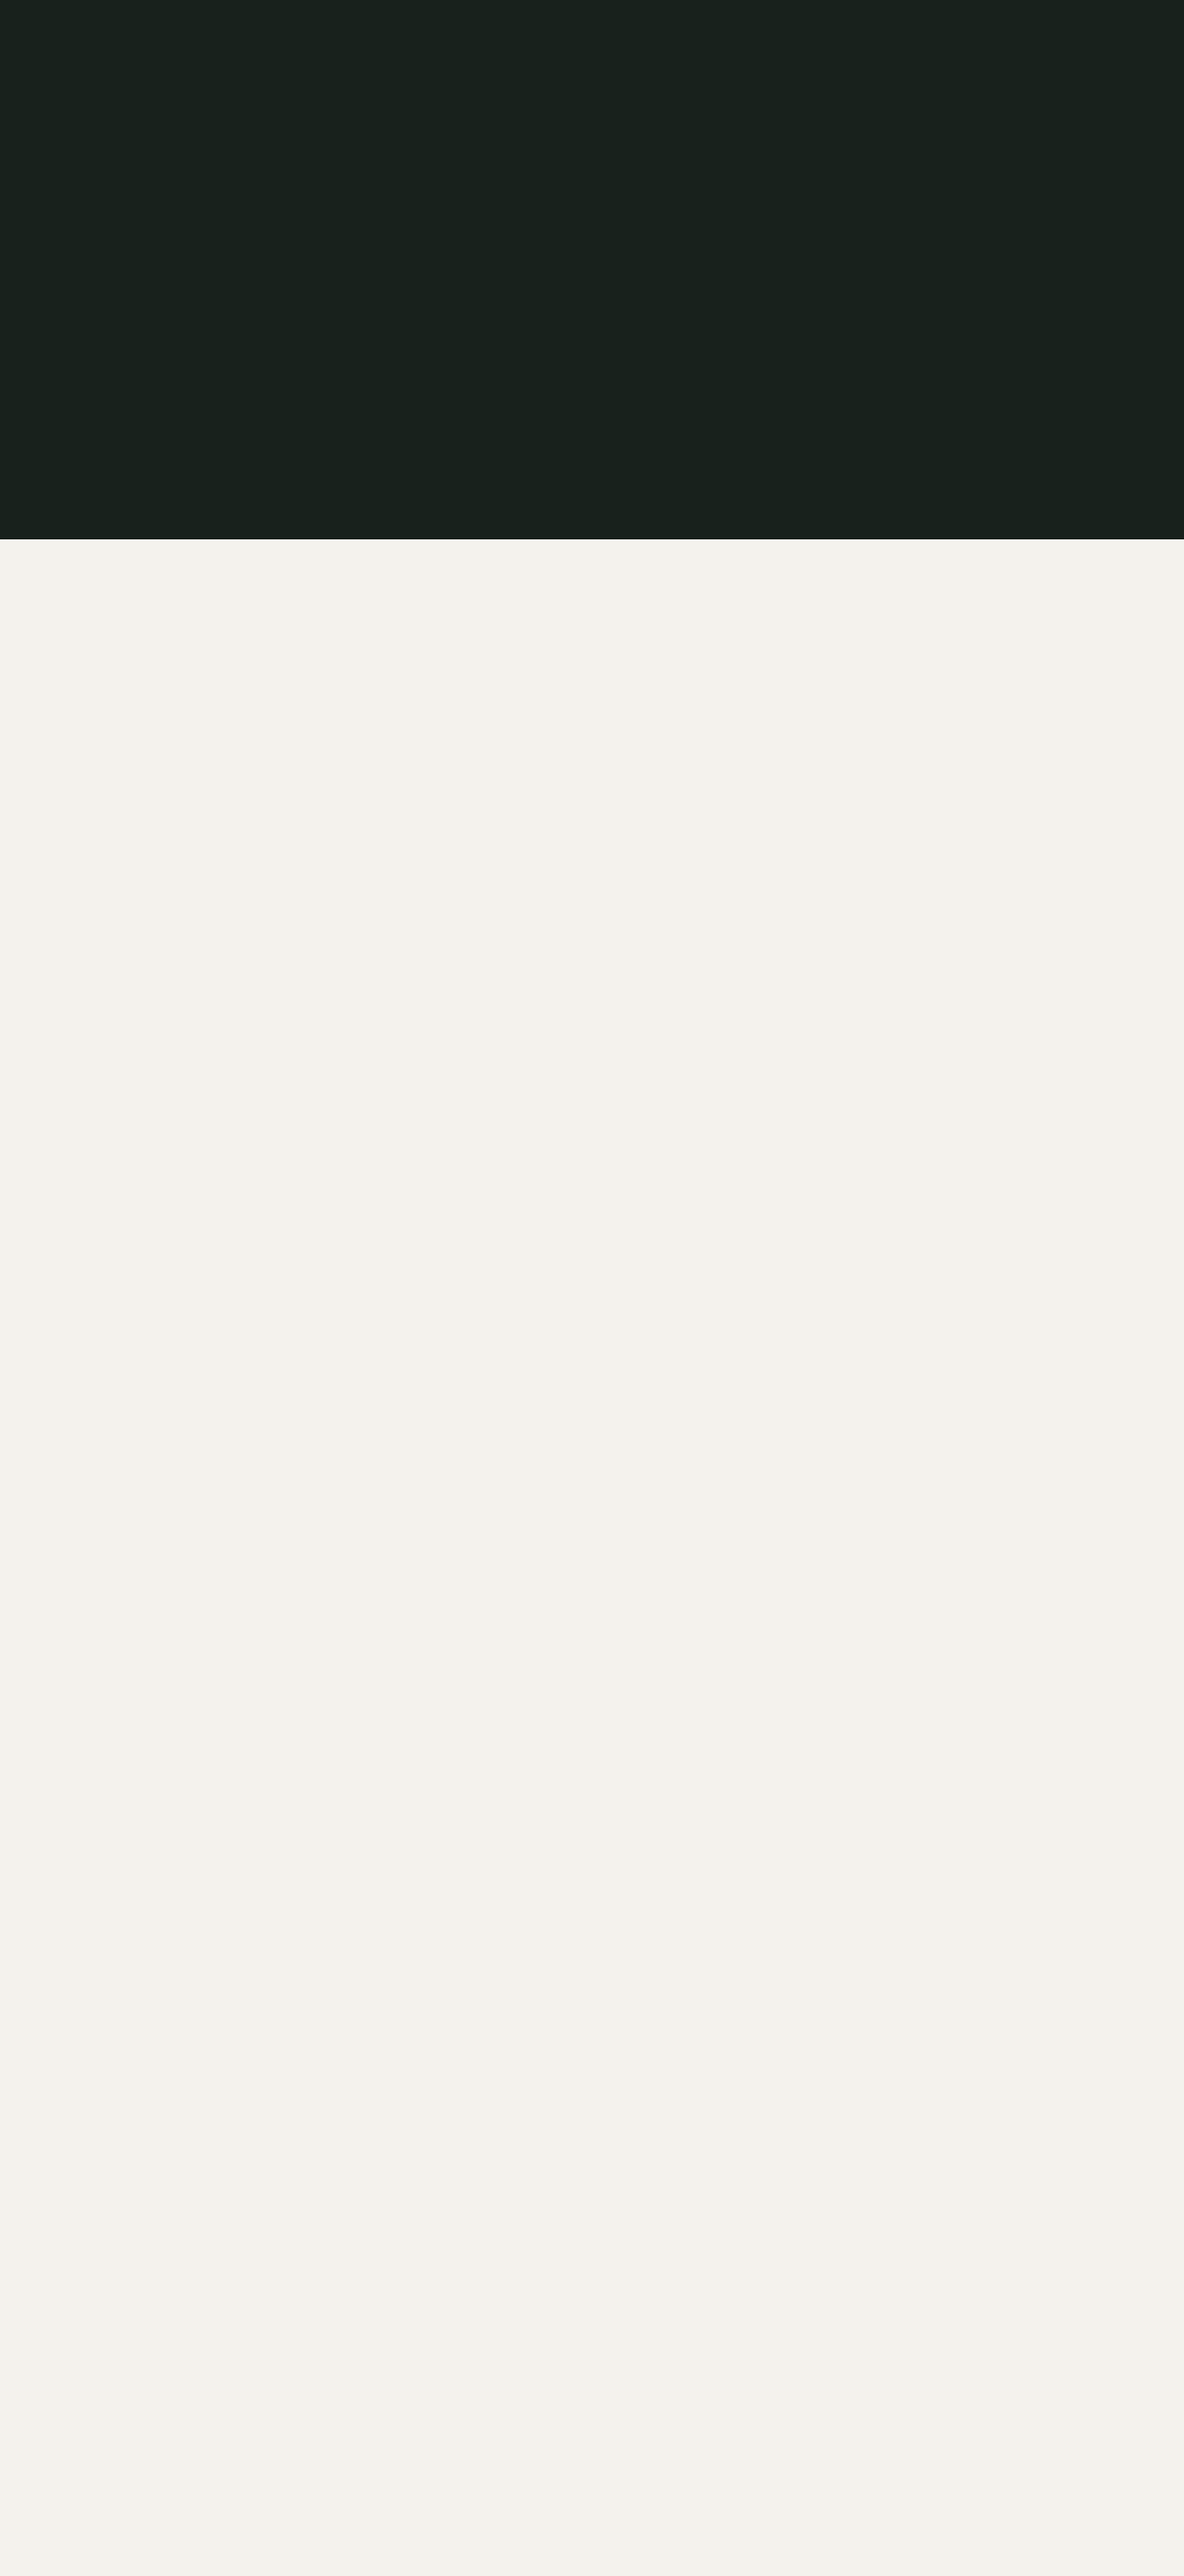
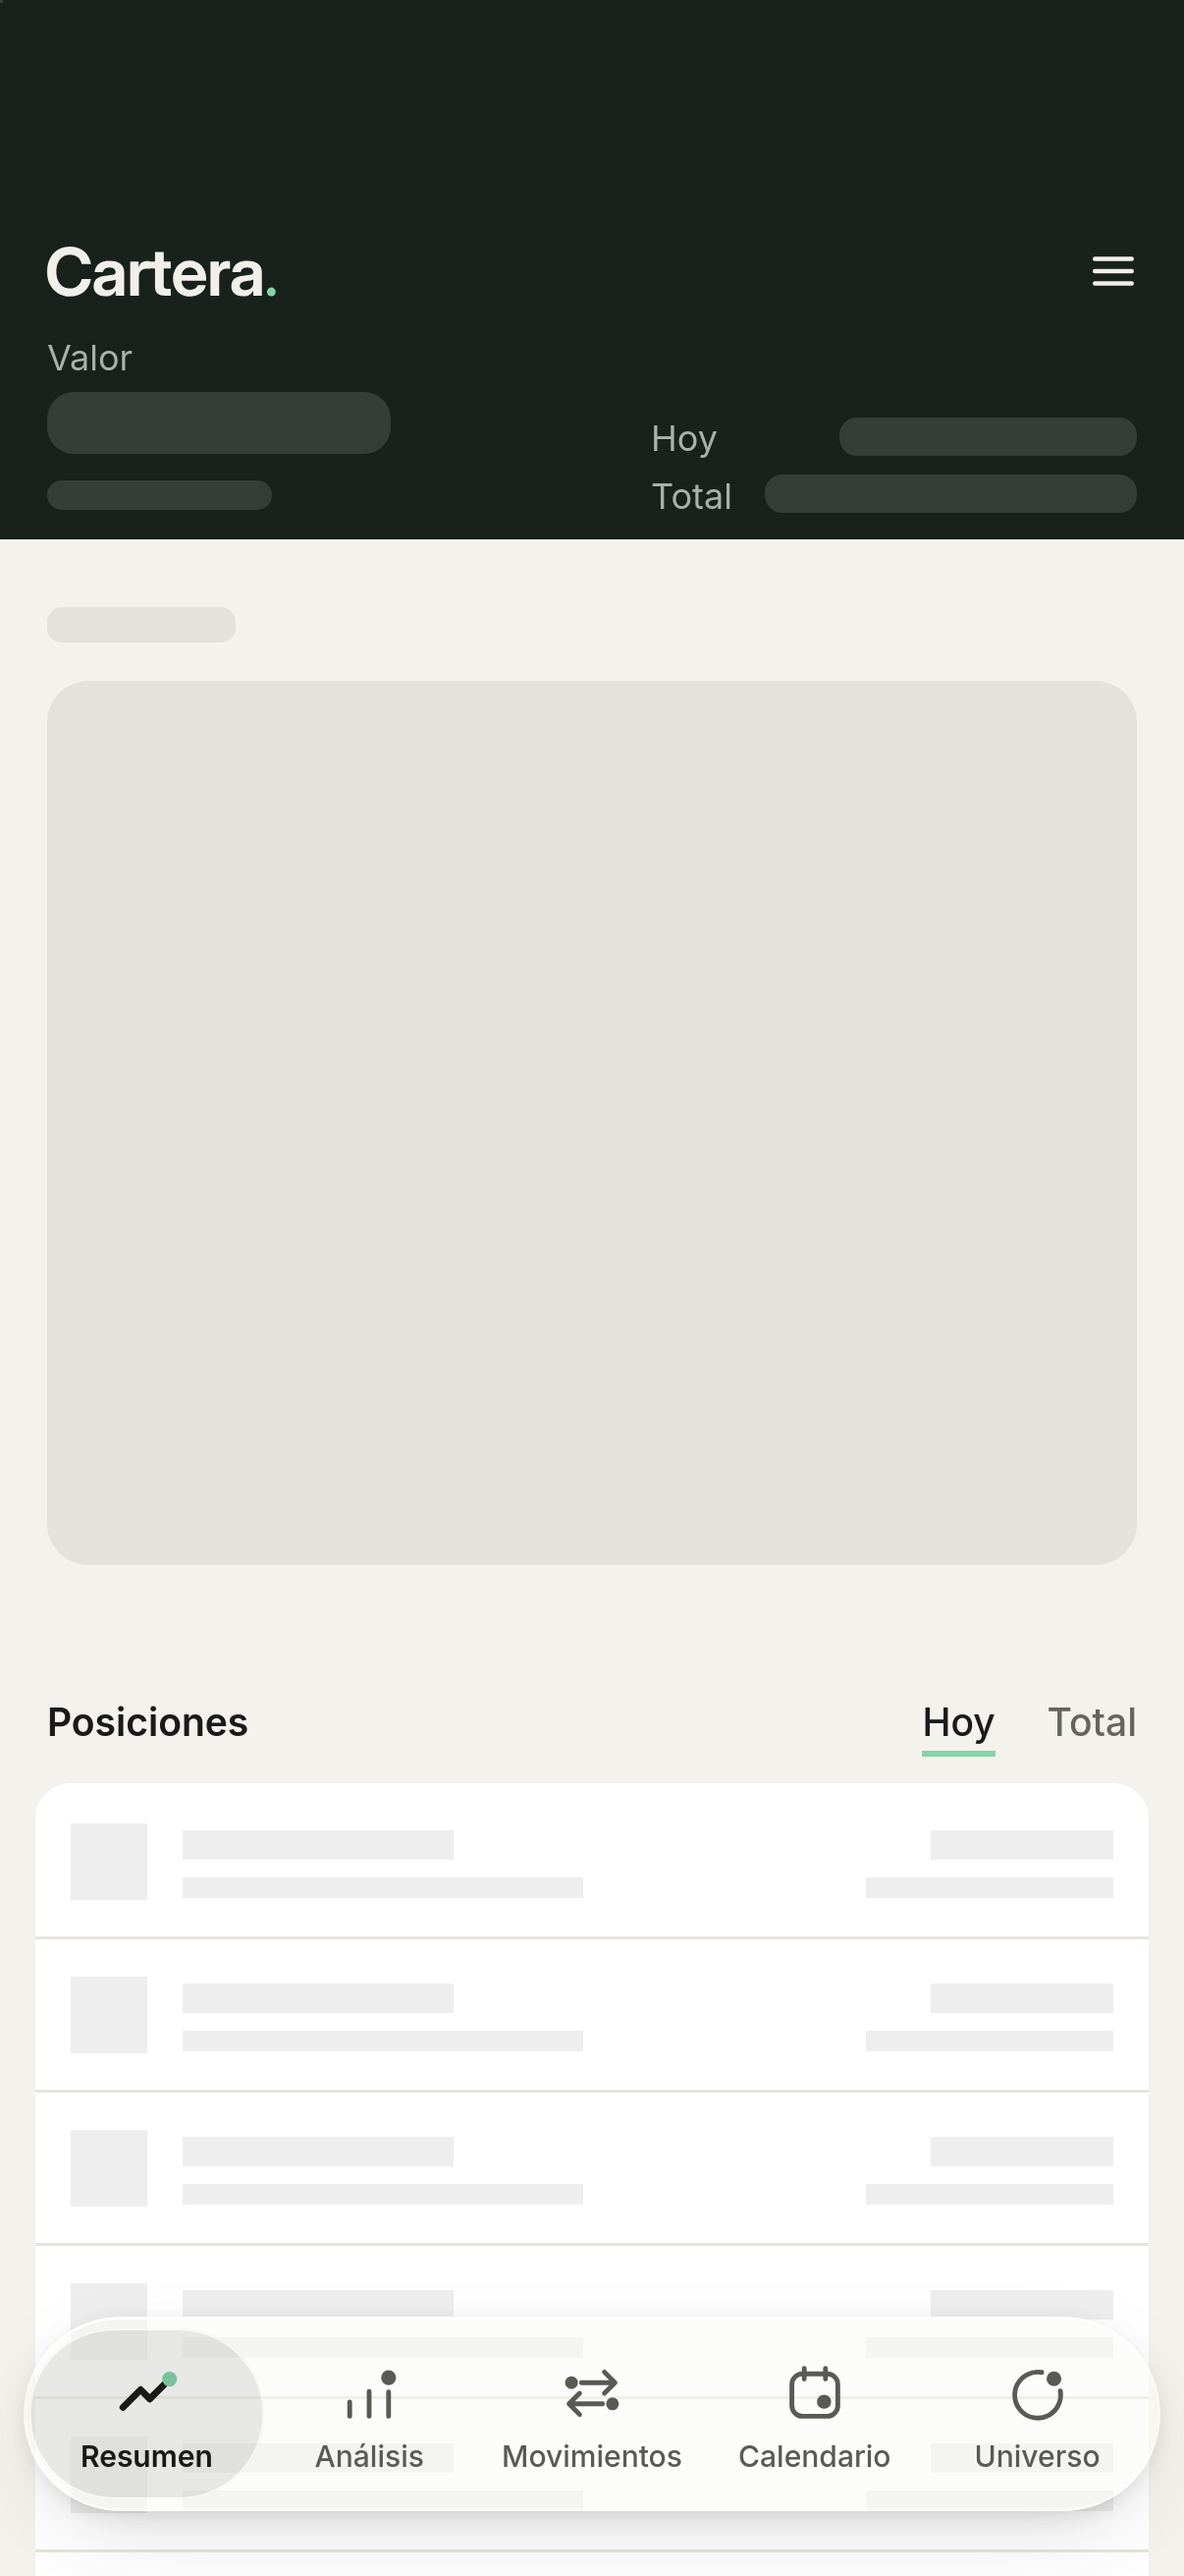
v812: imagen de arranque con Resumen en esqueleto
Las imágenes de arranque del iPhone (claro y oscuro) pasan de «banda y fondo vacío»
a Resumen en esqueleto: la banda con «Cartera.», las etiquetas Valor, Hoy y Total,
el sitio del mosaico y de la lista en gris suave, «Posiciones» y la barra de abajo.
La pantalla de carga de la app usa la misma imagen en el iPhone de 402 × 874, para
que no se vea esqueleto → vacío → Resumen.

Claude-Session: https://claude.ai/code/session_013KUgo8XU36fjzU39UtajUG

diff --git a/index.html b/index.html
@@ -2,24 +2,24 @@
 <html lang="es">
 <meta charset="utf-8">
 <style>/* v729 · en el móvil, el fondo verde de la cabecera desde el primer byte, antes del bloque grande de estilos: en el vídeo de las 14:23, al abrir, la pantalla se aclaraba dos fotogramas (1,18–1,20 s), como si se viera el blanco de serie antes de que la página pintara */@media (max-width:520px){html{background:#18211C}@media (prefers-color-scheme:dark){html{background:#2B2B29}}}</style>
-<meta http-equiv="Content-Security-Policy" content="default-src 'none'; script-src 'sha256-5FPkHb8uV3rCn70yz41d9qAUuUmCfMG/KE9ZoIxeXZI=' 'sha256-YxobDaS4gCE3c0Yfks8+uwSzhm1k9a3yldNoGWfacCQ=' 'self'; worker-src blob:; connect-src 'self' https://script.google.com https://script.googleusercontent.com; img-src 'self' data: blob:; style-src 'self' 'unsafe-inline'; font-src 'self'; manifest-src 'self'; base-uri 'none'; form-action 'none'; object-src 'none'">
+<meta http-equiv="Content-Security-Policy" content="default-src 'none'; script-src 'sha256-5FPkHb8uV3rCn70yz41d9qAUuUmCfMG/KE9ZoIxeXZI=' 'sha256-n4USym7EpmISa4G6fSPMuuv5Hu/j4I2MSHPbgIyPpKw=' 'self'; worker-src blob:; connect-src 'self' https://script.google.com https://script.googleusercontent.com; img-src 'self' data: blob:; style-src 'self' 'unsafe-inline'; font-src 'self'; manifest-src 'self'; base-uri 'none'; form-action 'none'; object-src 'none'">
 <meta name="robots" content="noindex, nofollow">
 <meta name="referrer" content="no-referrer">
 <meta name="apple-mobile-web-app-capable" content="yes">
 <meta name="mobile-web-app-capable" content="yes">
 <meta name="apple-mobile-web-app-title" content="Cartera">
 <meta name="apple-mobile-web-app-status-bar-style" content="black">
-<link rel="manifest" href="manifest.webmanifest?v811">
+<link rel="manifest" href="manifest.webmanifest?v812">
 <meta name="viewport" id="m-vp" content="width=device-width,initial-scale=1,viewport-fit=cover">
 <meta name="theme-color" content="#18211C" media="(max-device-width: 520px) and (prefers-color-scheme: light)">
 <meta name="theme-color" content="#2B2B29" media="(max-device-width: 520px) and (prefers-color-scheme: dark)">
 <meta name="theme-color" content="#E4E2DC" media="(min-device-width: 521px) and (prefers-color-scheme: light)">
 <meta name="theme-color" content="#0F0F0E" media="(min-device-width: 521px) and (prefers-color-scheme: dark)">
-<link rel="icon" type="image/png" sizes="32x32" href="favicon-32.png?v811">
-<link rel="icon" type="image/png" sizes="64x64" href="favicon-64.png?v811">
-<link rel="apple-touch-icon" href="apple-touch-icon.png?v811">
-<link rel="apple-touch-startup-image" media="screen and (device-width: 402px) and (device-height: 874px) and (-webkit-device-pixel-ratio: 3) and (orientation: portrait) and (prefers-color-scheme: light)" href="arranque-claro-1206x2622.png?v811">
-<link rel="apple-touch-startup-image" media="screen and (device-width: 402px) and (device-height: 874px) and (-webkit-device-pixel-ratio: 3) and (orientation: portrait) and (prefers-color-scheme: dark)" href="arranque-oscuro-1206x2622.png?v811">
+<link rel="icon" type="image/png" sizes="32x32" href="favicon-32.png?v812">
+<link rel="icon" type="image/png" sizes="64x64" href="favicon-64.png?v812">
+<link rel="apple-touch-icon" href="apple-touch-icon.png?v812">
+<link rel="apple-touch-startup-image" media="screen and (device-width: 402px) and (device-height: 874px) and (-webkit-device-pixel-ratio: 3) and (orientation: portrait) and (prefers-color-scheme: light)" href="arranque-claro-1206x2622.png?v812">
+<link rel="apple-touch-startup-image" media="screen and (device-width: 402px) and (device-height: 874px) and (-webkit-device-pixel-ratio: 3) and (orientation: portrait) and (prefers-color-scheme: dark)" href="arranque-oscuro-1206x2622.png?v812">
 <title>Cartera</title>
 <script>document.documentElement.lang="es"; if(Math.min(screen.width,screen.height)<=520){ const R=document.documentElement, m=document.getElementById("m-vp"); m.content="width=device-width,initial-scale=1,maximum-scale=1,viewport-fit=cover"; R.classList.add("m-tel","m-bar-on"); R.style.setProperty("--m-sw",Math.min(screen.width,screen.height)); { R.classList.add("m-app","m-splash"); try{ const s=localStorage.getItem("cartera-snap"); if(s) window.MA_PRE=[...new Set(s.match(/logos\/[\w.-]+\.webp/g)||[])].slice(0,60).map(u=>{ const i=new Image(); i.decoding="async"; i.src=u; return i; }); }catch{} requestAnimationFrame(()=>{ window.MA_SP0=performance.now(); }); let t=null; try{ t=localStorage.getItem("theme"); }catch{} const osc=t?t==="dark":matchMedia("(prefers-color-scheme: dark)").matches; document.querySelectorAll("meta[name=theme-color]").forEach(x=>{ x.dataset.o=x.content; x.content=osc?"#2B2B29":"#18211C"; }); } } try{ const t=localStorage.getItem("theme"); if(t==="dark"||t==="light") document.documentElement.dataset.theme=t; }catch{}</script>
 <meta name="claude:viewport-fit-sides" content="cover">
@@ -2866,6 +2866,10 @@ html.m-splash.m-sp-out #m-sp{opacity:0;pointer-events:none}
 @media (prefers-color-scheme:dark){html:not([data-theme="light"]) #m-sp .sp-c{display:none}html:not([data-theme="light"]) #m-sp .sp-o{display:block}}
 html[data-theme="dark"] #m-sp .sp-c{display:none}html[data-theme="dark"] #m-sp .sp-o{display:block}
 @media (prefers-reduced-motion:reduce){html.m-splash #m-sp{transition:none}}
+/* v812 · en el iPhone de 402 × 874, la pantalla de carga es la misma imagen de arranque (Resumen en esqueleto), para que no se vea esqueleto → vacío → Resumen */
+@media (device-width:402px) and (device-height:874px){html.m-splash #m-sp{background:url(arranque-claro-1206x2622.png) top/100% auto no-repeat}html.m-splash #m-sp img{display:none!important}
+ html[data-theme="dark"].m-splash #m-sp{background-image:url(arranque-oscuro-1206x2622.png)}}
+@media (device-width:402px) and (device-height:874px) and (prefers-color-scheme:dark){html:not([data-theme="light"]).m-splash #m-sp{background-image:url(arranque-oscuro-1206x2622.png)}}
 /* v669 · PC-09: el texto del «Por qué» de la ficha del PC, con unos 70 caracteres por línea como mucho (antes, unos 88) */
 #sheet .zpq3{max-width:474px}
 /* v671 · ficha del PC sin barra para bajar: cabe entera en la ventana; si no cabe bajo la barra de la web, se centra en la ventana entera (encima de la barra) */
@@ -3856,7 +3860,7 @@ function trayProj(s){ const T=DATA.tray, h=DATA.horizon, cur=DATA.curYear, until
     const p=out[i-1], ini=p&&isNum(p.val)?p.val:0, g=r.y<=until&&isNum(r.divs)?r.divs:ini*s.dy, k=tax(g), re=s.stop===0||r.y<s.stop, val=ini*(1+s.growth)+s.saving+(re?g*(1-k):0);
     out.push({y:r.y, age:r.age, acc:(p&&isNum(p.acc)?p.acc:0)+s.saving, val, divs:g, net:g/12*(1-k), ti:ini?(val-s.saving)/ini-1:null, re}); });
   return out; }
-const VER="v811";   // la versión publicada, en el pie
+const VER="v812";   // la versión publicada, en el pie
 // supuestos de Trayectoria: empiezan en los de tu hoja; moverlos solo cambia lo que ves aquí, nunca tu hoja
 let traySup=null, traySup0=null, trayRaf=0, trayArrastre=false, trayPendiente=false;
 // COD-14: mientras arrastras un deslizador, la recarga no lo sustituye; al soltarlo, se pone al día
